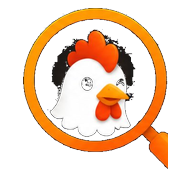
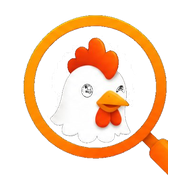
Aplikácia (PWA): offline režim, ponuka na inštaláciu, návod pre iPhone, opravené ikony, skratky

Changed region(s): [[0.0938, 0.0312, 0.875, 0.9062]]

diff --git a/index.html b/index.html
@@ -8,8 +8,12 @@
 <meta name="viewport" content="width=device-width, initial-scale=1.0">
 <link rel="manifest" href="/manifest.json">
 <meta name="theme-color" content="#E8590C">
-<link rel="icon" href="/assets/icon-192.png" type="image/png">
-<link rel="apple-touch-icon" href="/assets/icon-192.png">
+<link rel="icon" href="/assets/icon-192.png?v=2" type="image/png">
+<link rel="apple-touch-icon" href="/assets/apple-touch-icon.png?v=2">
+<meta name="apple-mobile-web-app-capable" content="yes">
+<meta name="mobile-web-app-capable" content="yes">
+<meta name="apple-mobile-web-app-title" content="HenKukaj">
+<meta name="apple-mobile-web-app-status-bar-style" content="default">
 <title>HenKukaj.sk – Najlepšie zľavy zo SK/CZ e-shopov</title>
 <meta name="description" content="Komunitná stránka so zľavami z overených slovenských a českých e-shopov. Hlasuj za najlepšie dealy, sleduj aktuálne akciové letáky a ušetri na nákupoch.">
 <link rel="canonical" href="https://henkukaj.sk/">
@@ -6653,11 +6657,117 @@ body.food-page { background: #FAF8F5; }
     <a href="/podmienky.html#ako-vyberame" style="color:var(--orange-dk); text-decoration:none; font-weight:600;">Ako vyberáme dealy</a>
     &nbsp;·&nbsp;
     <a href="#" onclick="zmenitSuhlas(); return false;" style="color:var(--orange-dk); text-decoration:none; font-weight:600;">Nastavenia súhlasu</a>
+    <span id="pwa-pata" hidden>&nbsp;·&nbsp;
+    <a href="#" onclick="pwaInstaluj(); return false;" style="color:var(--orange-dk); text-decoration:none; font-weight:600;">Nainštalovať aplikáciu</a></span>
     <br><br>
     📧 Kontakt: <a href="mailto:info@henkukaj.sk" style="color:var(--orange-dk); text-decoration:none; font-weight:600;">info@henkukaj.sk</a>
 
   </div>
 </footer>
+
+<!-- ── Aplikácia (PWA): inštalácia na plochu ─────────────────────────── -->
+<style>
+  .pwa-lista { position: fixed; left: 12px; right: 12px; bottom: 12px; z-index: 900; display: flex; align-items: center; gap: 12px;
+    background: var(--card, #fff); color: var(--ink, #1a1a1a); border: 1px solid var(--line, #e5e5e5); border-radius: 16px;
+    padding: 12px 12px 12px 14px; box-shadow: 0 14px 40px rgba(0,0,0,.22); max-width: 520px; margin: 0 auto;
+    transform: translateY(140%); transition: transform .3s ease; }
+  .pwa-lista.on { transform: none; }
+  .pwa-lista img { width: 48px; height: 48px; border-radius: 12px; flex: none; }
+  .pwa-lista-t { flex: 1; min-width: 0; line-height: 1.3; }
+  .pwa-lista-t b { display: block; font-size: .95rem; white-space: nowrap; }
+  .pwa-lista-t small { color: var(--muted, #6b6b6b); font-size: .8rem; }
+  .pwa-lista .pwa-ano { background: var(--orange, #E8590C); color: #fff; border: 0; border-radius: 10px; padding: 10px 14px;
+    font: inherit; font-weight: 800; font-size: .88rem; cursor: pointer; flex: none; }
+  .pwa-lista .pwa-nie { background: none; border: 0; color: var(--muted, #6b6b6b); font-size: 1.3rem; line-height: 1;
+    width: 32px; height: 32px; cursor: pointer; flex: none; border-radius: 8px; }
+  .pwa-ios { position: fixed; inset: 0; z-index: 950; background: rgba(0,0,0,.5); display: flex; align-items: flex-end; justify-content: center; padding: 12px; }
+  .pwa-ios-box { background: var(--card, #fff); color: var(--ink, #1a1a1a); border-radius: 18px; padding: 22px; max-width: 420px; width: 100%; }
+  .pwa-ios-box h3 { margin: 0 0 12px; font-size: 1.15rem; }
+  .pwa-ios-box ol { margin: 0 0 18px; padding-left: 22px; line-height: 1.7; }
+  .pwa-ios-box button { width: 100%; background: var(--orange, #E8590C); color: #fff; border: 0; border-radius: 12px; padding: 13px; font: inherit; font-weight: 800; cursor: pointer; }
+</style>
+<script>
+  // Inštalovateľná aplikácia: service worker (offline režim) a ponuka
+  // „Nainštalovať“. Chrome a Edge na Androide aj počítači ponúknu vlastné
+  // okno (beforeinstallprompt); iPhone ho nemá, tam ukážeme návod
+  // Zdieľať → Pridať na plochu. Lištu ukážeme najviac raz za 30 dní, až
+  // keď si človek stránku chvíľu prezerá, a nikdy cez lištu súhlasu.
+  (function () {
+    if ('serviceWorker' in navigator) {
+      window.addEventListener('load', () => navigator.serviceWorker.register('/sw.js').catch(() => {}));
+    }
+    const udalost = k => { if (window.hkUdalost) window.hkUdalost(k); };
+    const nainstalovana = window.matchMedia('(display-mode: standalone)').matches || navigator.standalone === true;
+    if (nainstalovana) { setTimeout(() => udalost('aplikacia_spustenie'), 3000); return; }
+    const ua = navigator.userAgent;
+    const ios = /iphone|ipad|ipod/i.test(ua) || (navigator.platform === 'MacIntel' && navigator.maxTouchPoints > 1);
+    const iosSafari = ios && /safari/i.test(ua) && !/crios|fxios|edgios/i.test(ua);
+    let vyzva = null;
+
+    function ponuka(dostupna) {
+      document.getElementById('pwa-pata').hidden = !dostupna;
+    }
+    window.addEventListener('beforeinstallprompt', e => { e.preventDefault(); vyzva = e; ponuka(true); naplanujListu(); });
+    window.addEventListener('appinstalled', () => { udalost('aplikacia_nainstalovana'); zavriListu(); ponuka(false); vyzva = null; });
+    if (iosSafari) { ponuka(true); naplanujListu(); }
+
+    window.pwaInstaluj = async function () {
+      udalost('aplikacia_klik');
+      zavriListu();
+      if (vyzva) {
+        vyzva.prompt();
+        const v = await vyzva.userChoice.catch(() => null);
+        if (v && v.outcome === 'accepted') { vyzva = null; ponuka(false); }
+        return;
+      }
+      if (iosSafari) {
+        const o = document.createElement('div');
+        o.className = 'pwa-ios';
+        o.innerHTML = `<div class="pwa-ios-box" role="dialog" aria-label="Pridať na plochu">
+            <h3>Pridaj si HenKukaj na plochu</h3>
+            <ol><li>Ťukni dole na <b>Zdieľať</b> (štvorček so šípkou nahor).</li>
+              <li>Vyber <b>Pridať na plochu</b>.</li><li>Potvrď <b>Pridať</b> vpravo hore.</li></ol>
+            <button type="button">Rozumiem</button></div>`;
+        o.addEventListener('click', e => { if (e.target === o || e.target.tagName === 'BUTTON') o.remove(); });
+        document.body.appendChild(o);
+      }
+    };
+
+    let lista = null, naplanovana = false;
+    function zavriListu(trvalo) {
+      if (lista) { lista.classList.remove('on'); setTimeout(() => lista && lista.remove(), 350); lista = null; }
+      if (trvalo) try { localStorage.setItem('hk_pwa_odmietnute', String(Date.now())); } catch (e) {}
+    }
+    function naplanujListu() {
+      if (naplanovana) return;
+      naplanovana = true;
+      let odm = 0;
+      try { odm = Number(localStorage.getItem('hk_pwa_odmietnute')) || 0; } catch (e) {}
+      if (Date.now() - odm < 30 * 86400000) return;
+      if (!window.matchMedia('(max-width: 760px)').matches) return;   // na počítači stačí odkaz v pätičke
+      let pokusy = 0;
+      const skus = () => {
+        // Nie cez lištu súhlasu ani cez otvorené okno "Pridaj deal".
+        const prekaza = document.getElementById('hk-meranie') || document.querySelector('.promo-popup-overlay, .modal-overlay.open, .pwa-ios');
+        if (prekaza) { if (++pokusy < 40) setTimeout(skus, 5000); return; }
+        lista = document.createElement('div');
+        lista.className = 'pwa-lista';
+        lista.setAttribute('role', 'dialog');
+        lista.setAttribute('aria-label', 'Nainštalovať aplikáciu');
+        lista.innerHTML = `<img src="/assets/icon-192.png?v=2" alt="">
+          <div class="pwa-lista-t"><b>Aplikácia HenKukaj</b><small>Dealy jedným ťuknutím z plochy</small></div>
+          <button type="button" class="pwa-ano">Nainštalovať</button>
+          <button type="button" class="pwa-nie" aria-label="Zavrieť">×</button>`;
+        lista.querySelector('.pwa-ano').onclick = () => window.pwaInstaluj();
+        lista.querySelector('.pwa-nie').onclick = () => { udalost('aplikacia_odmietnutie'); zavriListu(true); };
+        document.body.appendChild(lista);
+        requestAnimationFrame(() => requestAnimationFrame(() => lista && lista.classList.add('on')));
+        udalost('aplikacia_ponuka');
+      };
+      setTimeout(skus, 25000);
+    }
+  })();
+</script>
 
 <script>
   // ── Promo popup "Pridaj deal" – zobrazí sa pri každej 3. návšteve ───────

diff --git a/sw.js b/sw.js
@@ -1,0 +1,53 @@
+// ── Service worker HenKukaj.sk ────────────────────────────────────────
+// Robí z webu inštalovateľnú aplikáciu a drží ju použiteľnú aj pri
+// slabom signáli:
+//  - stránky (navigácia): najprv sieť, pri výpadku posledná uložená
+//    verzia, inak offline stránka. Obsah je tak vždy čerstvý.
+//  - obrázky, logá, ikony z vlastnej domény: hneď z pamäte a na pozadí
+//    sa obnovia (stale-while-revalidate).
+//  - dáta (JSON s cenami leteniek a pod.): najprv sieť.
+//  - cudzie domény (Firebase, Google, reklamy) a admin sa vôbec
+//    nezachytávajú - idú priamo, ako bez service workera.
+// Pri zmene tohto súboru zvýš VERZIA, staré pamäte sa zmažú.
+const VERZIA = 'hk-v1';
+const STALE = ['/', '/offline.html', '/manifest.json', '/images/logo.png',
+  '/assets/icon-192.png?v=2', '/assets/icon-512.png?v=2', '/assets/images/deal-bez-fotky.webp'];
+
+self.addEventListener('install', e => {
+  e.waitUntil(caches.open(VERZIA).then(c => c.addAll(STALE)).then(() => self.skipWaiting()));
+});
+
+self.addEventListener('activate', e => {
+  e.waitUntil(caches.keys()
+    .then(k => Promise.all(k.filter(x => x !== VERZIA).map(x => caches.delete(x))))
+    .then(() => self.clients.claim()));
+});
+
+async function siet(req, zaloha) {
+  const c = await caches.open(VERZIA);
+  try {
+    const r = await fetch(req);
+    if (r.ok) c.put(req, r.clone());
+    return r;
+  } catch (e) {
+    return (await c.match(req, { ignoreSearch: req.mode === 'navigate' })) || (zaloha && await c.match(zaloha)) || Response.error();
+  }
+}
+
+async function pamat(req) {
+  const c = await caches.open(VERZIA);
+  const ulozena = await c.match(req);
+  const nova = fetch(req).then(r => { if (r.ok) c.put(req, r.clone()); return r; }).catch(() => null);
+  return ulozena || (await nova) || Response.error();
+}
+
+self.addEventListener('fetch', e => {
+  const req = e.request;
+  if (req.method !== 'GET') return;
+  const url = new URL(req.url);
+  if (url.origin !== self.location.origin) return;
+  if (url.pathname.startsWith('/admin') || url.pathname.startsWith('/assets/admin/')) return;
+  if (req.mode === 'navigate') { e.respondWith(siet(req, '/offline.html')); return; }
+  if (/\.(json|xml|txt)$/.test(url.pathname)) { e.respondWith(siet(req)); return; }
+  if (/\.(png|jpe?g|webp|gif|svg|ico|css|js|woff2?)$/.test(url.pathname)) { e.respondWith(pamat(req)); return; }
+});

diff --git a/offline.html b/offline.html
@@ -1,0 +1,29 @@
+<!DOCTYPE html>
+<html lang="sk">
+<head>
+<meta charset="UTF-8">
+<meta name="viewport" content="width=device-width, initial-scale=1.0">
+<meta name="robots" content="noindex">
+<meta name="theme-color" content="#E8590C">
+<title>Bez pripojenia – HenKukaj.sk</title>
+<style>
+  :root { --orange: #E8590C; --ink: #1A1A1A; --muted: #6B6B6B; }
+  body { margin: 0; min-height: 100vh; display: flex; align-items: center; justify-content: center; padding: 24px;
+    font-family: -apple-system, 'Segoe UI', Roboto, system-ui, sans-serif; background: #F5F5F3; color: var(--ink); text-align: center; }
+  @media (prefers-color-scheme: dark) { body { background: #17191C; color: #ECECEC; } }
+  img { width: 112px; height: 112px; border-radius: 26px; }
+  h1 { font-size: 1.4rem; margin: 18px 0 8px; }
+  p { color: var(--muted); max-width: 320px; margin: 0 auto 22px; line-height: 1.5; }
+  button { background: var(--orange); color: #fff; border: 0; border-radius: 12px; padding: 14px 26px; font: inherit; font-weight: 700; font-size: 1rem; cursor: pointer; }
+</style>
+</head>
+<body>
+  <main>
+    <img src="/assets/icon-192.png?v=2" alt="">
+    <h1>Si offline</h1>
+    <p>Zdá sa, že nemáš pripojenie na internet. Dealy sa načítajú, hneď ako sa pripojíš.</p>
+    <button type="button" onclick="location.reload()">Skúsiť znova</button>
+  </main>
+  <script>window.addEventListener('online', () => location.reload());</script>
+</body>
+</html>
